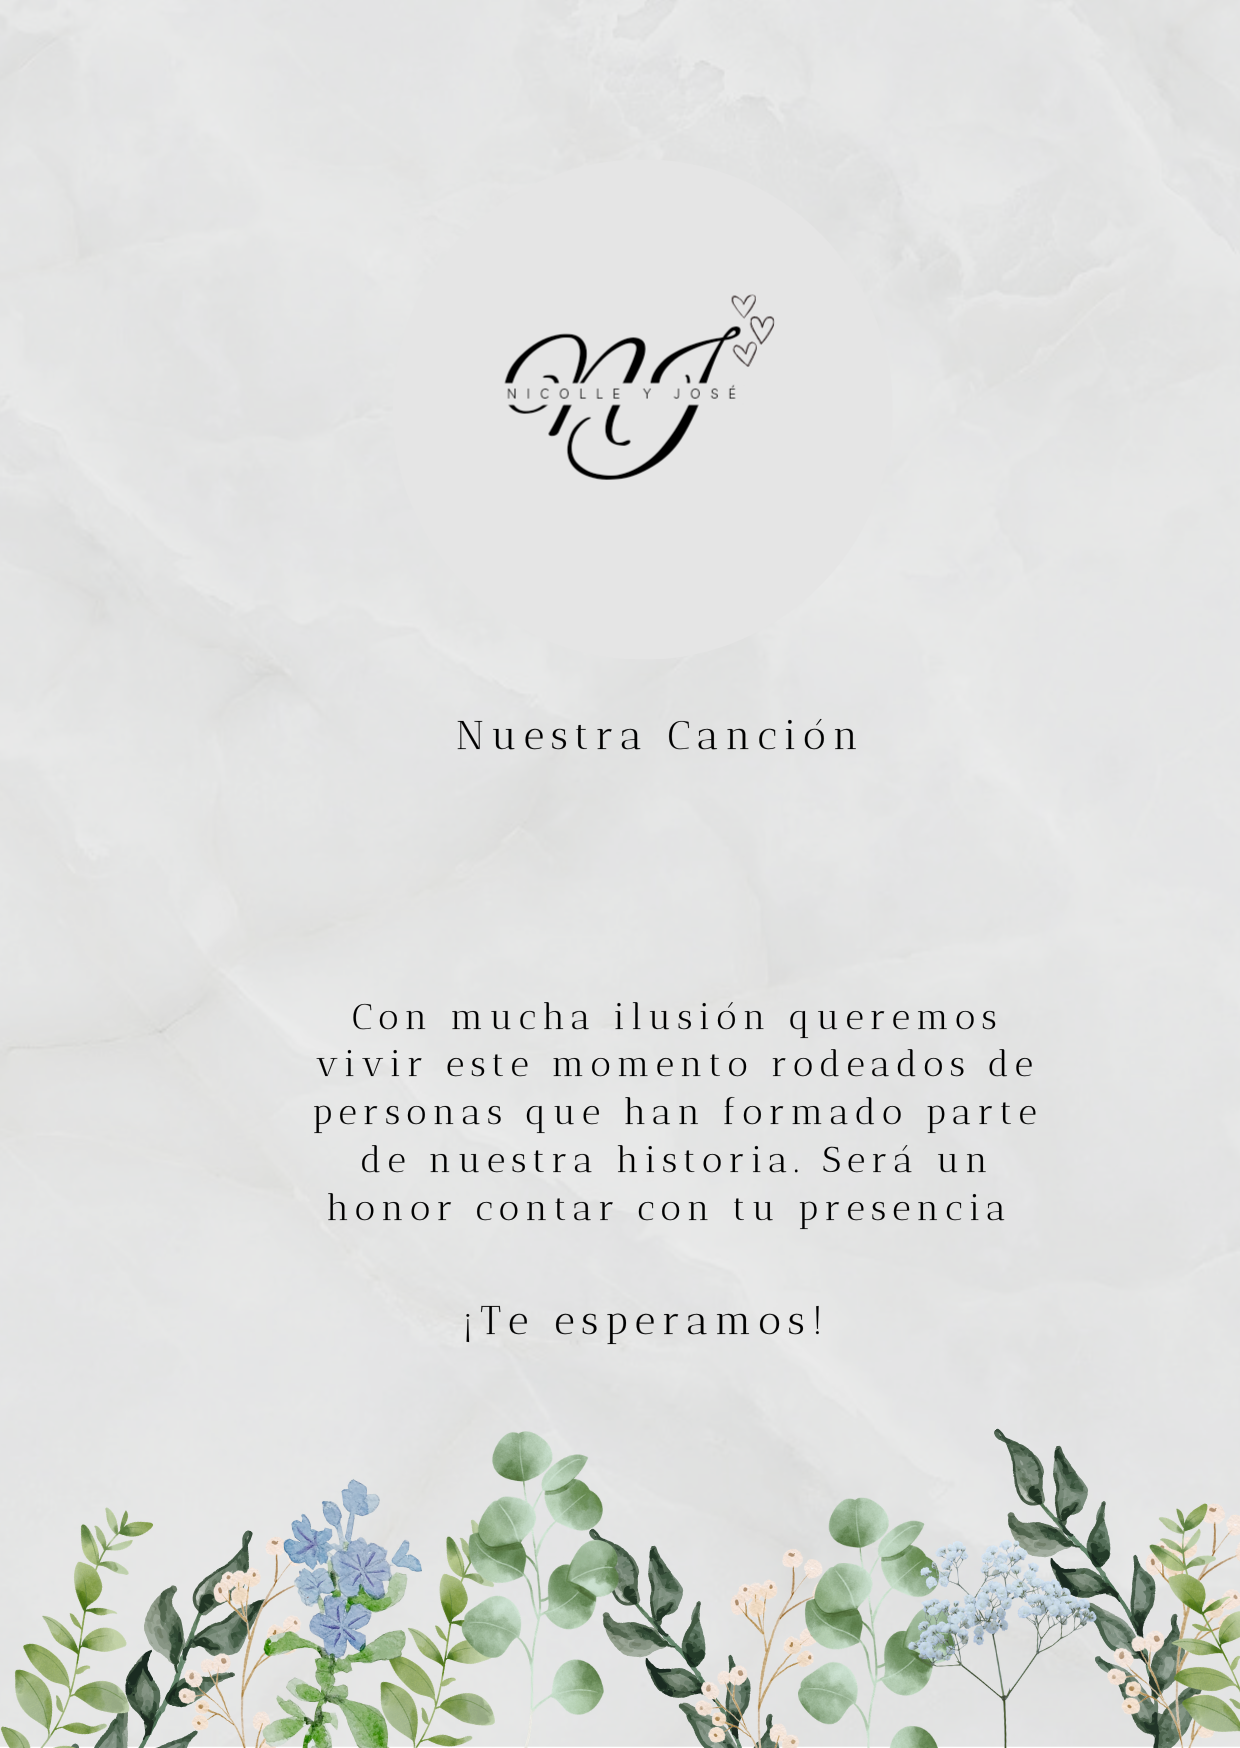
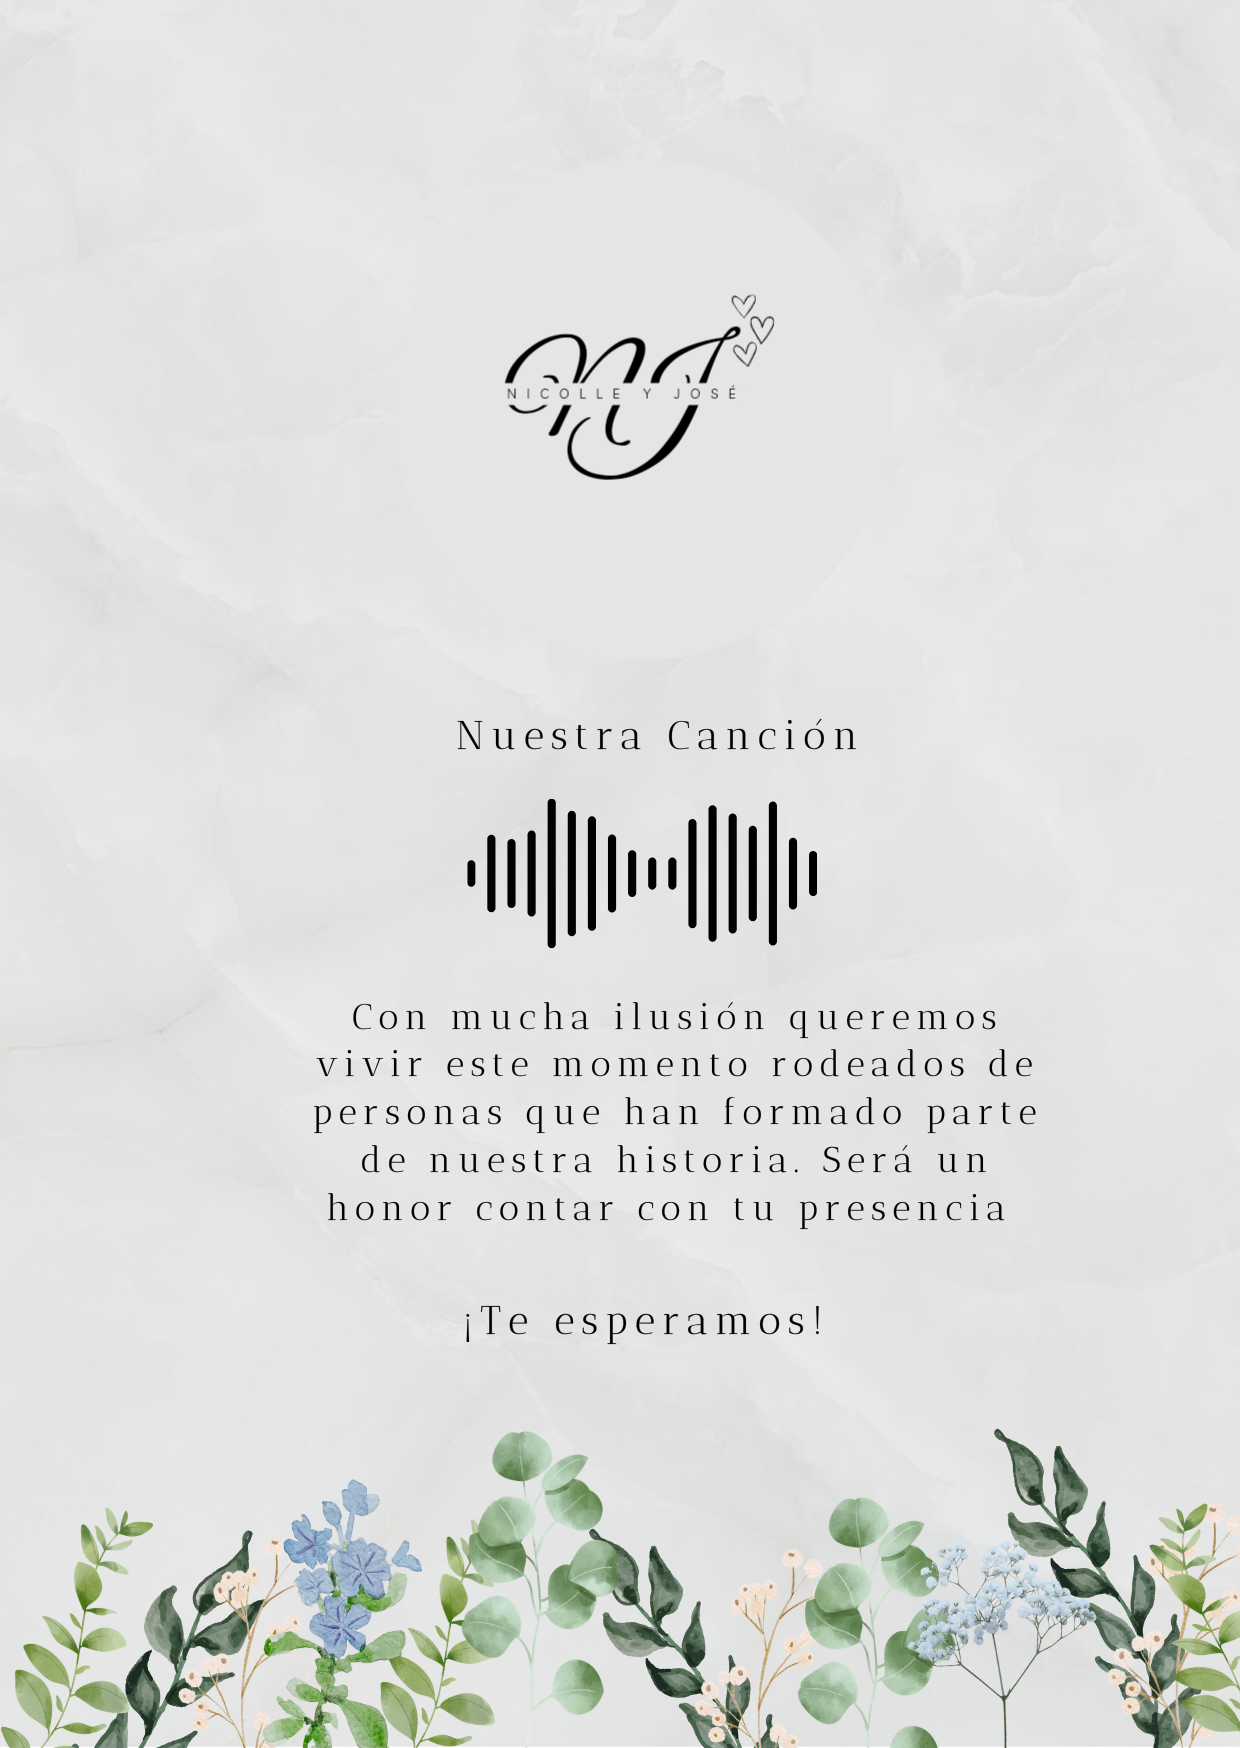
margins

Changed region(s): [[0.3677, 0.4634, 0.6742, 0.5561]]

diff --git a/style.css b/style.css
@@ -14,7 +14,7 @@
 }
 
 .image-container img {
-    margin: 10px 0; /* Add some space between images */
+    margin: 0px 0; /* Add some space between images */
     max-width: 100%; /* Ensures images are responsive */
 }
 
@@ -24,10 +24,12 @@
 }
 
 .audio-container {
-    position: absolute;
-    top: 435%;
+    margin: 30px 0; /* Add some space between images */
+    position: relative;
+    top: 40%;
     left: 50%;
     transform: translate(-50%, -50%);
+    align-items: center;
     text-align: center;
     display: flex;
     /* Adjust positioning as needed */

diff --git a/index.html b/index.html
@@ -18,13 +18,14 @@
             
             
         </div>
-    
         <div class="audio-container">
             <audio controls>
                 <source src="LB.mp3" type="audio/mpeg">
                 Your browser does not support the audio element.
             </audio>
         </div>
+    
+        
 
     </div>
     
